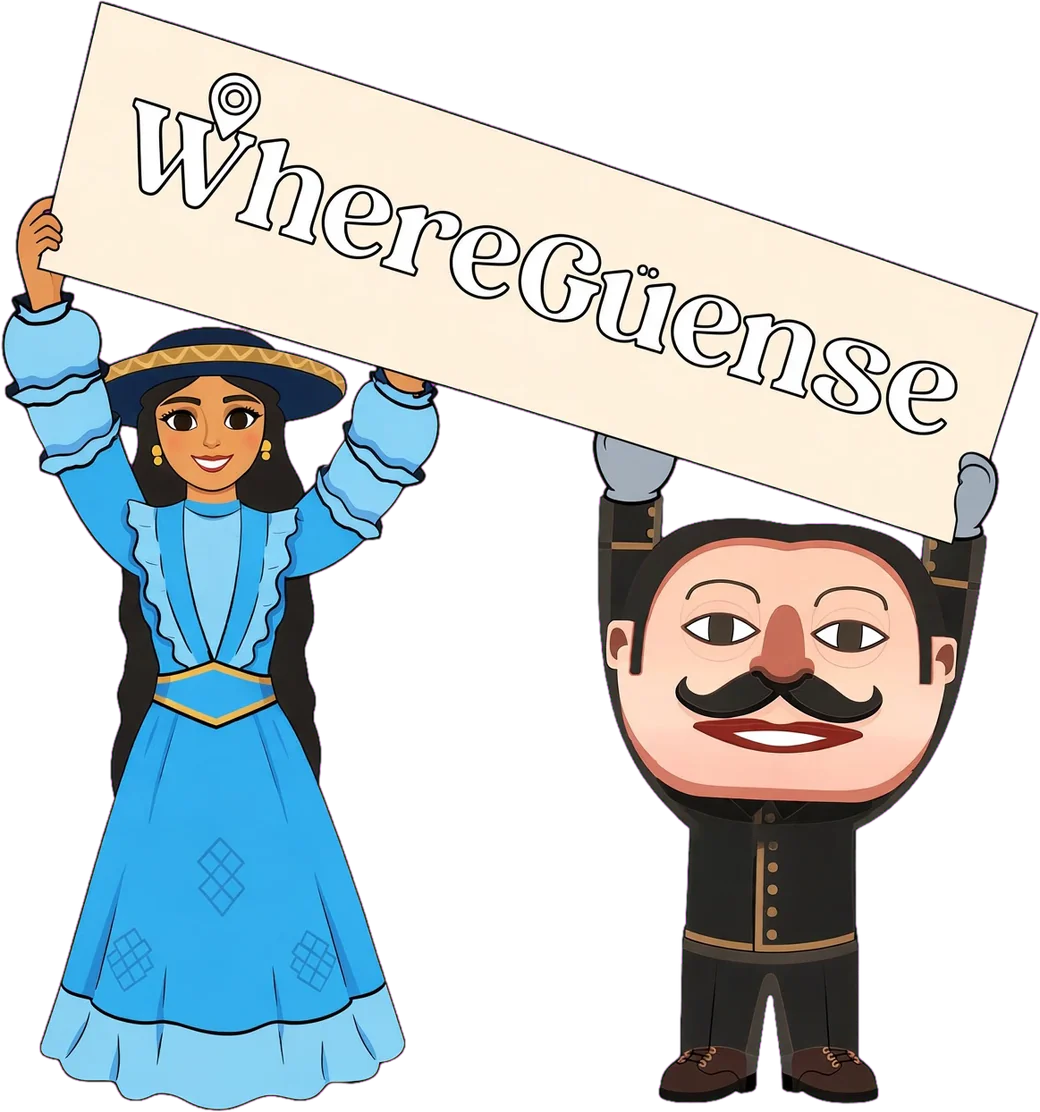
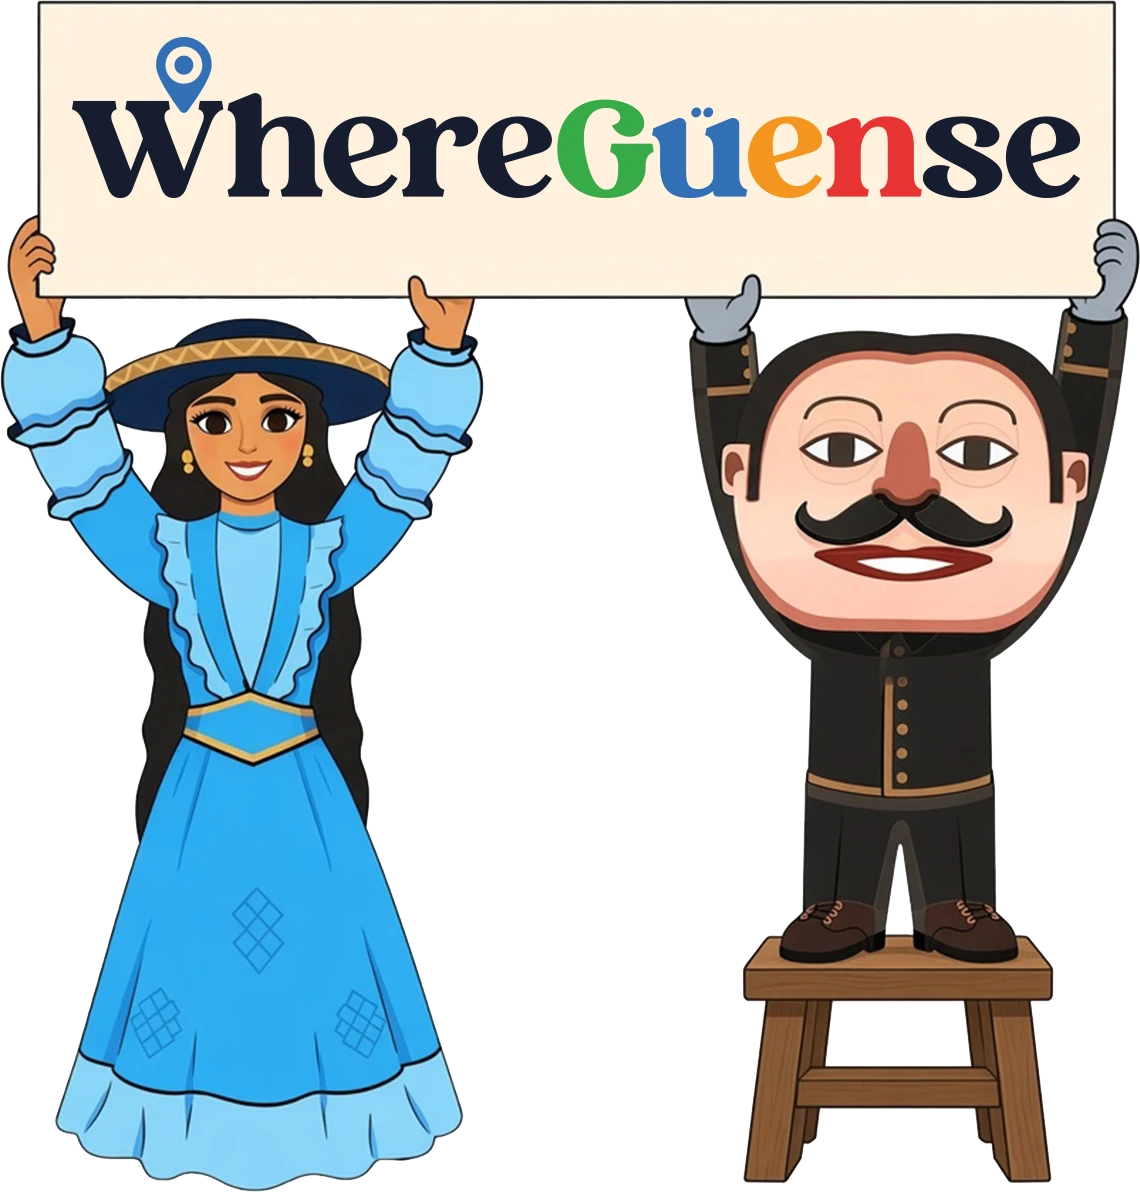
feat(carga): nueva imagen en la pantalla de carga
Reemplaza whereguense_pareja.webp (la que usa la pantalla de carga) por la imagen con el
letrero WhereGüense, conservando el formato y la transparencia. La proporción del
contenedor pasa a 1140x1192.

diff --git a/src/App.css b/src/App.css
@@ -18,14 +18,14 @@
   gap: 24px;
   background: var(--color-primary);
 }
-/* Gigantona + Cabezón (whereguense_pareja.png, 1163×1244, recortada a su
+/* Gigantona + Cabezón (whereguense_pareja.webp, 1140×1192, recortada a su
    contenido). El ancho sale del menor entre: 78vw, 520px y el ancho que
-   corresponde a la altura máxima (46vh × 1163/1244), así la caja siempre
+   corresponde a la altura máxima (46vh × 1140/1192), así la caja siempre
    coincide con la imagen visible, sin bandas vacías por object-fit. */
 .app-cargando-gigantona {
   --cargando-alto-max: 46vh;
-  width: min(78vw, 520px, calc(var(--cargando-alto-max) * 1163 / 1244));
-  aspect-ratio: 1163 / 1244;
+  width: min(78vw, 520px, calc(var(--cargando-alto-max) * 1140 / 1192));
+  aspect-ratio: 1140 / 1192;
   animation: appCargandoEntrar 280ms cubic-bezier(0.16, 1, 0.3, 1) both;
 }
 .app-cargando-gigantona img {
